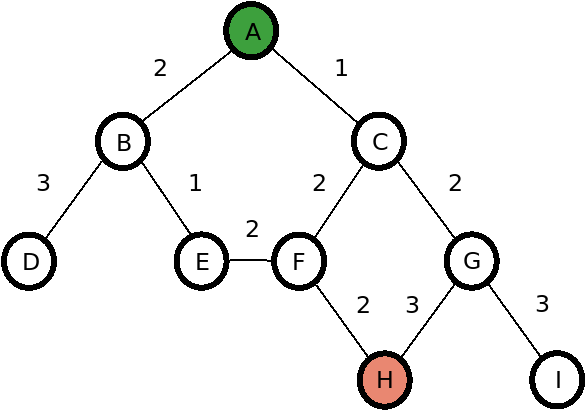
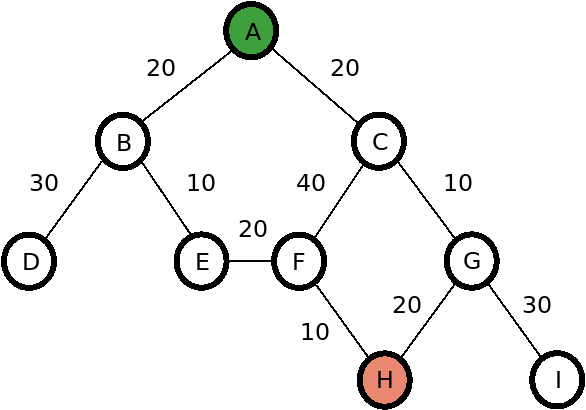
Continue the "Searching Algorithms" section

diff --git a/manuscript/ArtificialIntelligence/searching-algorithms.md b/manuscript/ArtificialIntelligence/searching-algorithms.md
@@ -352,35 +352,39 @@
 
 #### Жадный поиск по первому наилучшему совпадению
 
-Алгоритм **жадного поиска по первому наилучшему совпадению** (greedy best-first search, GBFS) выбирает путь к цели, который кажется наилучшим в данный момент. На каждом шаге алгоритм переходит в узел дерева или графа, который ближе всего к целевому узлу. Расстояние от текущего до целевого узла оценивает эвристическая функция. Алгоритм игнорирует стоимость шагов и полагается только на эвристическую функцию.
+Мы рассмотрим два алгоритма информированного. Они следуют общему подходу под названием **поиск по первому наилучшему совпадению** (best-first search, BFS). Самый простой вариант такого алгоритма называется **жадный поиск по первому наилучшему совпадению** (greedy best-first search, GBFS). Он выбирает путь к цели, который кажется наилучшим в данный момент. На каждом шаге алгоритм переходит в узел дерева или графа, который ближе всего к целевому узлу. Расстояние от текущего до целевого узла оценивает эвристическая функция. Алгоритм игнорирует стоимость шагов и полагается только на эвристическую функцию.
 
 Иллюстрация 2-10 демонстрирует порядок обхода узлов дерева поиска.
 
 {caption: "Иллюстрация 2-10. Порядок обхода узлов при жадном поиске по первому наилучшему совпадению", height: "50%", width: "100%"}
 ![Жадный поиск по первому наилучшему совпадению](images/ArtificialIntelligence/gbfs-tree.png)
 
-Поиск начинается в корневом узле A. Целевой узел H. Эвристическая функция определяет расстояние по прямой от каждого узла до H. Эти расстояния отличаются от стоимости шагов между узлами.
+Поиск начинается в корневом узле A. Целевой узел H. Эвристическая функция определяет расстояние по прямой от каждого узла до H. Эти расстояния отличаются от стоимости пути между узлами.
 
 Таблица 2-14 демонстрирует все значения эвристической функции.
 
 {caption: "Таблица 2-14. Значения эвристической функции", width: "100%"}
 | Узел | Значение функции |
 | --- | --- |
-| A | 5 |
-| B | 6 |
-| C | 4 |
-| D | 7 |
-| E | 3 |
-| F | 2 |
-| G | 1 |
+| A | 45 |
+| B | 35 |
+| C | 25 |
+| D | 60 |
+| E | 25 |
+| F | 10 |
+| G | 15 |
 | H | 0 |
-| I | 4 |
+| I | 40 |
 
 Жадный поиск по первому наилучшему совпадению ориентируется только на значения эвристической функции из таблицы 2-14. Поэтому он найдёт следующий путь:
 
-A -> C -> G -> H
+A -> C -> F -> H
 
-Согласно эвристической функции, узел G находится ближе к H, чем узел F. По этой оценке расстояние G-H равно 1, а F-H равно 2. Это пример, когда эвристическая функция даёт результат отличающийся от реальной стоимости шагов. Из-за такой проблемы алгоритм может найти неоптимальное решение, как это случилось в нашем примере.
+На первом шаге алгоритм выбирает между узлами B и C. Согласно эвристической функции из таблицы 2-14, узел C находится ближе к целевому узлу, чем B. Расстояние C-H равно 25, а B-H 35.
+
+Далее алгоритм выбирает между узлами F и G. Расстояние F-H равно 10, согласно таблице 2-14. Расстояние G-H равно 15. Это значит, что узел F ближе к узлу H. Поэтому алгоритм выберет путь через узел F.
+
+В нашем случае алгоритм GBFS нашёл неоптимальное решение. Стоимость найденного пути A-C-F-H равна `20 + 40 + 10 = 70`. Оптимальное решение — это путь A-C-G-H со стоимостью `20 + 10 + 20 = 50`. Причина выбора неоптимального решения в том, что алгоритм не учёл реальное расстояние между узлами C и F. Оно оказалось значительно больше, чем расстояние C-G.
 
 Достоинства жадного поиска по первому наилучшему совпадению:
 
@@ -395,6 +399,50 @@ A -> C -> G -> H
 * Эффективность поиска зависит от качества эвристической функции.
 
 #### Поиск A*
+
+Другая разновидность поиска по первому наилучшему совпадению называется поиск А*. Он похож на алгоритм GBFS. Единственная разница в том, что поиск A* использует два фактора для оценки наилучшего узла для перехода:
+
+1. Эвристическая функция.
+2. Стоимость пути от начального узла.
+
+Выразим эту оценку более формально на языке математики. Поиск A* использует **функцию оценки** `f(n)`, чтобы найти лучший следующий узел `n` для перехода. Обозначим эвристическую функцию как `h(n)`, а стоимость пути от начального узла до `n` как функцию `g(n)`. Тогда `f(n)` выражается так:
+```
+f(n) = g(n) + h(n)
+```
+
+Применим поиск A* для дерева на иллюстрации 2-10. Пусть значения эвристической функции будут такими же, как в таблице 2-14. В этом случае алгоритм поиска выполнит шаги из таблицы 2-15.
+
+{caption: "Таблица 2-15. Шаги поиска A*", width: "100%"}
+| Шаг | Узел | g(n) | h(n) | f(n) |
+| --- | --- | --- | --- | --- |
+| 1 | A | 0 | 45 | 45 |
+| 2 | C | 20 | 25 | 45 |
+| 3 | G | 30 | 15 | 45 |
+| 4 | H | 50 | 0 | 50 |
+
+На первом шаге алгоритм A* выбирает между узлами B и C. Для узла B значение `f(n)` рассчитывается так:
+```
+f(n) = g(n) + h(n) = 20 + 35 = 55
+```
+
+Для узла C `f(n)` равно 45, согласно таблице 2-15. Поэтому алгоритм выберет узел с меньшим значением f(n), т.е. узел C.
+
+Дальше алгоритм выбирает между узлами F и G. Вот расчёт функции `f(n)` для  узла F:
+```
+f(n) = g(n) + h(n) = 60 + 10 = 70
+```
+
+Это значение больше 45 для узла G. Поэтому алгоритм предпочтёт узел G.
+
+Последний шаг очевиден — алгоритм предпочтёт переход в целевой узел H с `f(n) = 50`, чем в узел I с `f(n) = 60 + 40 = 100`.
+
+Достоинства поиска A*:
+
+*
+
+Недостатки поиска A*:
+
+* 
 
 ### Состязательный поиск
 
